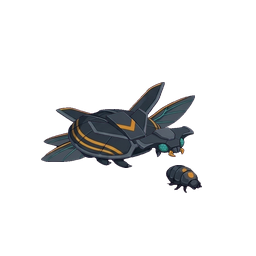
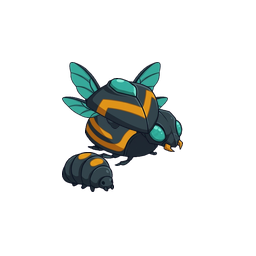
R6 G4 2차 비평 권장 군체 벌레(insect) 2개체 재작화·보강(special-t1·infantry-t4)

Changed region(s): [[0.1562, 0.2188, 0.8125, 0.75]]

diff --git a/asset-source/r6/monsters/insect/STATUS.md b/asset-source/r6/monsters/insect/STATUS.md
@@ -42,4 +42,6 @@
 ## G4 비평 검수 재작화 (`docs/renewal/r6/review/G4-monsters-critique.md` 11항)
 
 - `boss-t1/T1` (비평 11항): 빈약한 왕관 인간형 벌을 폐기하고 설정표 원안의 횡폭이 넓은 비행형 거대 장갑 여왕말벌(4매 무광 날개 `armor`·앰버 줄무늬 대형 복부 `body`·큰턱/틸 겹눈 `head`·톱니 낫 앞다리·이족 13슬롯)로 재작화 (`cut_parts` `issues=0` · 13/13 슬롯, 모의 `fit_parts` IoU `0.729`, 32px 보스-일반 최대 IoU `0.483`, 지형/길 대비 `1.787/1.665`, 흰색·마젠타 잔여 `0/0`).
+- `special/T1` (2차 비평 1순위): 납작 저대비 원반을 체고 높은 아치형 등갑·굵은 앰버 줄무늬·틸 수정 보석·큰 틸 겹눈으로 재작화 (`cut_parts` `issues=0` · 5/5 슬롯, 모의 `fit_parts` IoU `0.752`, 32px 지형/길 대비 `1.832/1.563`, 흰색·마젠타 잔여 `0/0`).
+- `infantry/T4` (2차 비평 선택): `head` 슬롯을 밝은 3단 각면 명암·큰 틸 겹눈·앰버 능선으로 보강하여 어두운 구멍 인상 해소 (`cut_parts` `issues=0` · 11/11 슬롯, 모의 `fit_parts` IoU `0.868`, 32px 지형/길 대비 `1.546/1.387`, 흰색·마젠타 잔여 `0/0`).
 - `docs/renewal/r6/bible/sheets/monsters-insect-parts-all.webp` 갱신 완료.
